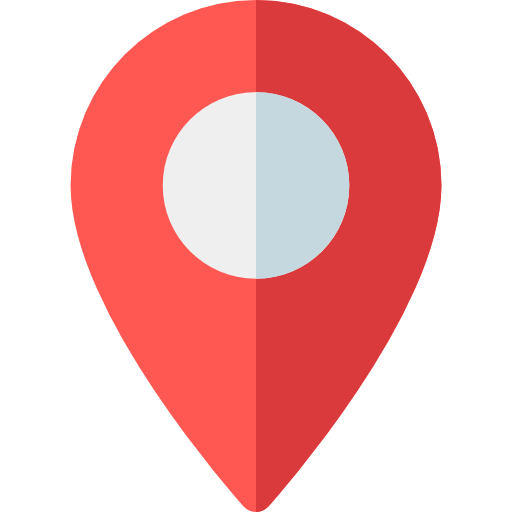
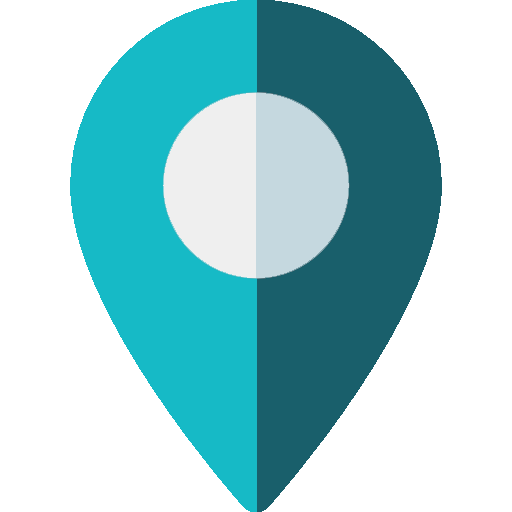
Polish, recolor assets & dp placeholder

diff --git a/lib/pages/submit_rescue_page.dart b/lib/pages/submit_rescue_page.dart
@@ -30,6 +30,7 @@ class SubmitRescuePage extends StatefulWidget {
 class _SubmitRescuePageState extends State<SubmitRescuePage>
     with SingleTickerProviderStateMixin {
   final GlobalKey<FormState> _formKey = GlobalKey<FormState>();
+  final TextEditingController _contactNoController = TextEditingController();
   final TextEditingController _additionalInfoController =
       TextEditingController();
 
@@ -92,7 +93,9 @@ class _SubmitRescuePageState extends State<SubmitRescuePage>
                                 mainAxisSize: MainAxisSize.min,
                                 children: <Widget>[
                                   InkWell(
-                                    onTap: _showImageSourceSelectionDialog,
+                                    onTap: !isBusy
+                                        ? _showImageSourceSelectionDialog
+                                        : null,
                                     child: Material(
                                       shape: RoundedRectangleBorder(
                                           side: BorderSide(
@@ -168,26 +171,62 @@ class _SubmitRescuePageState extends State<SubmitRescuePage>
                                                   FontAwesomeIcons.mapMarkerAlt,
                                                   color: UnderdogTheme.darkTeal,
                                                 ),
-                                                onPressed: () {
-                                                  final Future<LocationInfo>
-                                                      result = Navigator.push(
-                                                          context,
-                                                          MaterialPageRoute<
-                                                                  LocationInfo>(
-                                                              builder: (BuildContext
-                                                                      context) =>
-                                                                  const SelectLocationPage()));
+                                                onPressed: !isBusy
+                                                    ? () {
+                                                        final Future<
+                                                                LocationInfo>
+                                                            result =
+                                                            Navigator.push(
+                                                                context,
+                                                                MaterialPageRoute<
+                                                                        LocationInfo>(
+                                                                    builder: (BuildContext
+                                                                            context) =>
+                                                                        const SelectLocationPage()));
 
-                                                  result.then(
-                                                      (LocationInfo value) {
-                                                    if (value != null) {
-                                                      model.updateLocationInfo(
-                                                          value);
-                                                    }
-                                                  });
-                                                },
+                                                        result.then(
+                                                            (LocationInfo
+                                                                value) {
+                                                          if (value != null) {
+                                                            model
+                                                                .updateLocationInfo(
+                                                                    value);
+                                                          }
+                                                        });
+                                                      }
+                                                    : null,
                                               )
                                             ],
+                                          ),
+                                          const SizedBox(height: 12),
+                                          Text(
+                                            'CONTACT NO.',
+                                            style: UnderdogTheme.darkLabelStyle,
+                                          ),
+                                          TextFormField(
+                                            enabled: !isBusy,
+                                            controller:
+                                                _additionalInfoController,
+                                            maxLines: 1,
+                                            textCapitalization:
+                                                TextCapitalization.sentences,
+                                            cursorColor: Colors.white,
+                                            decoration: InputDecoration(
+                                                enabledBorder: _enabledBorder,
+                                                focusedBorder: _focusedBorder,
+                                                hintText: '09xxxxxxxxx',
+                                                hintStyle:
+                                                    UnderdogTheme.darkHintText),
+                                            validator: (String value) {
+                                              if (value.length != 11 ||
+                                                  int.tryParse(value) == null) {
+                                                return 'Please enter a valid mobile number';
+                                              } else if (value.isEmpty) {
+                                                return 'This field is required';
+                                              }
+
+                                              return null;
+                                            },
                                           ),
                                           const SizedBox(height: 12),
                                           Text(
@@ -195,6 +234,7 @@ class _SubmitRescuePageState extends State<SubmitRescuePage>
                                             style: UnderdogTheme.darkLabelStyle,
                                           ),
                                           TextFormField(
+                                            enabled: !isBusy,
                                             controller:
                                                 _additionalInfoController,
                                             maxLines: 1,
@@ -249,22 +289,25 @@ class _SubmitRescuePageState extends State<SubmitRescuePage>
                             isBusy: isBusy,
                             style: UnderdogTheme.raisedButtonText,
                             onPressed: () async {
-                              final String result = await model.submitRescue(
-                                  widget.report.uid,
-                                  _selectedImage,
-                                  model.locationInfo.addressLine,
-                                  model.locationInfo.latitude,
-                                  model.locationInfo.longitude,
-                                  _additionalInfoController.text);
+                              if (_formKey.currentState.validate()) {
+                                final String result = await model.submitRescue(
+                                    widget.report.uid,
+                                    _selectedImage,
+                                    model.locationInfo.addressLine,
+                                    model.locationInfo.latitude,
+                                    model.locationInfo.longitude,
+                                    _additionalInfoController.text);
 
-                              if (result != null) {
-                                Scaffold.of(context).showSnackBar(
-                                  ErrorSnackBar(
-                                    content: Text(result),
-                                  ),
-                                );
-                              } else {
-                                Navigator.pop(context, true);
+                                if (result != null) {
+                                  Scaffold.of(context).showSnackBar(
+                                    ErrorSnackBar(
+                                      content: Text(result),
+                                    ),
+                                  );
+                                } else {
+                                  await _showSubmissionSuccessDialog();
+                                  Navigator.pop(context, true);
+                                }
                               }
                             },
                             delay: 125,
@@ -351,5 +394,29 @@ class _SubmitRescuePageState extends State<SubmitRescuePage>
         );
       },
     );
+  }
+
+  Future<void> _showSubmissionSuccessDialog() async {
+    showDialog<void>(
+        context: context,
+        barrierDismissible: false,
+        builder: (BuildContext context) {
+          return AlertDialog(
+              shape: RoundedRectangleBorder(
+                  borderRadius: BorderRadius.circular(8)),
+              title: const Text('Success'),
+              content: const Text(
+                'You have successfully submitted the rescue. Thank you so much for helping a dog find his/her forever home!',
+                textAlign: TextAlign.center,
+              ),
+              actions: <Widget>[
+                FlatButton(
+                  child: const Text('Okay'),
+                  onPressed: () {
+                    Navigator.pop(context);
+                  },
+                )
+              ]);
+        });
   }
 }

diff --git a/lib/pages/view_rescue_page.dart b/lib/pages/view_rescue_page.dart
@@ -96,8 +96,8 @@ class _ViewRescuePageState extends State<ViewRescuePage> {
                                         context,
                                         SlideLeftPageRoute<void>(
                                             page: ViewImagePage(
-                                          // url: model.rescue.imageUrl,
-                                          uid: widget.report.uid,
+                                          url: model.rescue.imageUrl,
+                                          uid: '',
                                         )));
                                   },
                                   child: Hero(
@@ -262,54 +262,58 @@ class _ViewRescuePageState extends State<ViewRescuePage> {
           content: Row(
             mainAxisAlignment: MainAxisAlignment.spaceEvenly,
             children: <Widget>[
-              RaisedButton(
-                  child: Container(
-                    padding: const EdgeInsets.symmetric(
-                        vertical: 16, horizontal: 16),
-                    child: Column(
-                      mainAxisSize: MainAxisSize.min,
-                      children: <Widget>[
-                        Icon(
-                          FontAwesomeIcons.phone,
-                          color: Colors.white,
-                        ),
-                        const SizedBox(height: 8),
-                        Text(
-                          'Phone',
-                          style: UnderdogTheme.raisedButtonText,
-                        ),
-                      ],
-                    ),
-                  ),
-                  // onPressed: () {
-                  //   Navigator.pop(context);
-                  //   launch('tel://09178796938');
-                  // }
-                  onPressed: null),
-              const SizedBox(width: 8),
-              RaisedButton(
-                  child: Container(
+              Expanded(
+                child: RaisedButton(
+                    child: Container(
                       padding: const EdgeInsets.symmetric(
                           vertical: 16, horizontal: 16),
                       child: Column(
                         mainAxisSize: MainAxisSize.min,
                         children: <Widget>[
                           Icon(
-                            FontAwesomeIcons.envelopeOpen,
+                            FontAwesomeIcons.phone,
                             color: Colors.white,
                           ),
                           const SizedBox(height: 8),
                           Text(
-                            'E-mail',
+                            'Phone',
                             style: UnderdogTheme.raisedButtonText,
                           ),
                         ],
-                      )),
-                  onPressed: () {
-                    Navigator.pop(context);
-                    launch(
-                        'mailto:${_viewRescueModel.rescuer.email}?subject=Report User: ${_viewRescueModel.rescuer.firstName} ${_viewRescueModel.rescuer.lastName}&body=This user is bad');
-                  }),
+                      ),
+                    ),
+                    // onPressed: () {
+                    //   Navigator.pop(context);
+                    //   launch('tel://09178796938');
+                    // }
+                    onPressed: null),
+              ),
+              const SizedBox(width: 8),
+              Expanded(
+                child: RaisedButton(
+                    child: Container(
+                        padding: const EdgeInsets.symmetric(
+                            vertical: 16, horizontal: 16),
+                        child: Column(
+                          mainAxisSize: MainAxisSize.min,
+                          children: <Widget>[
+                            Icon(
+                              FontAwesomeIcons.envelopeOpen,
+                              color: Colors.white,
+                            ),
+                            const SizedBox(height: 8),
+                            Text(
+                              'E-mail',
+                              style: UnderdogTheme.raisedButtonText,
+                            ),
+                          ],
+                        )),
+                    onPressed: () {
+                      Navigator.pop(context);
+                      launch(
+                          'mailto:${_viewRescueModel.rescuer.email}?subject=Report User: ${_viewRescueModel.rescuer.firstName} ${_viewRescueModel.rescuer.lastName}&body=This user is bad');
+                    }),
+              ),
             ],
           ),
         );

diff --git a/lib/widgets/home_drawer.dart b/lib/widgets/home_drawer.dart
@@ -3,6 +3,7 @@ import 'package:flutter/material.dart';
 import 'package:font_awesome_flutter/font_awesome_flutter.dart';
 import 'package:provider/provider.dart';
 import 'package:share/share.dart';
+import 'package:underdog/constants.dart';
 import 'package:underdog/pages/login_page.dart';
 import 'package:underdog/viewmodels/home_drawer_model.dart';
 import 'package:underdog/viewmodels/home_model.dart';
@@ -46,7 +47,7 @@ class HomeDrawer extends StatelessWidget {
                             child: ClipOval(
                               child: CachedNetworkImage(
                                 imageUrl: model.user.displayPhotoUrl ??
-                                    'https://hips.hearstapps.com/hmg-prod.s3.amazonaws.com/images/03-the-joker-w1200-h630-1562679871.jpg?crop=0.526xw:1.00xh;0.238xw,0&resize=480:*',
+                                    Constants.DP_PLACEHOLDER_URL,
                                 height: 96,
                                 width: 96,
                                 fit: BoxFit.contain,
@@ -64,19 +65,17 @@ class HomeDrawer extends StatelessWidget {
                           Share.share(
                               'Hello friends! Become a rescuer and help dogs find their forever home');
                         },
-                        // icon: FontAwesomeIcons.connectdevelop,
                       ),
-                      const SizedBox(height: 8),
-                      AnimatedFlatButton(
-                        label: 'Report a user',
-                        onPressed: () {},
-                        // icon: FontAwesomeIcons.connectdevelop,
-                      ),
+                      // const SizedBox(height: 8),
+                      // AnimatedFlatButton(
+                      //   label: 'Report a user',
+                      //   onPressed: () {},
+                      // icon: FontAwesomeIcons.connectdevelop,
+                      // ),
                       const SizedBox(height: 8),
                       AnimatedFlatButton(
                         label: 'About',
                         onPressed: () {},
-                        // icon: FontAwesomeIcons.connectdevelop,
                       ),
                       const SizedBox(height: 8),
                       AnimatedRaisedButton(

diff --git a/lib/pages/home_page.dart b/lib/pages/home_page.dart
@@ -280,9 +280,15 @@ class _HomePageState extends State<HomePage> with TickerProviderStateMixin {
   Future<void> _initializeUserMarker() async {
     final UserLocation userLocation = Provider.of<UserLocation>(context);
 
+    const ImageConfiguration imageConfig =
+        ImageConfiguration(size: Size(48, 48));
+    final BitmapDescriptor icon =
+        await BitmapDescriptor.fromAssetImage(imageConfig, 'assets/marker.png');
+
     final Marker marker = Marker(
       markerId: _userMarkerId,
-      icon: BitmapDescriptor.defaultMarkerWithHue(184.1),
+      // icon: BitmapDescriptor.defaultMarkerWithHue(184.1),
+      icon: icon,
       position: LatLng(userLocation.latitude, userLocation.longitude),
       infoWindow: const InfoWindow(title: 'You are here'),
       onTap: () {},
@@ -305,9 +311,15 @@ class _HomePageState extends State<HomePage> with TickerProviderStateMixin {
   Future<void> _updateUserMarker(Timer t) async {
     final UserLocation userLocation = Provider.of<UserLocation>(context);
 
+    const ImageConfiguration imageConfig =
+        ImageConfiguration(size: Size(48, 48));
+    final BitmapDescriptor icon =
+        await BitmapDescriptor.fromAssetImage(imageConfig, 'assets/marker.png');
+
     final Marker marker = Marker(
       markerId: _userMarkerId,
-      icon: BitmapDescriptor.defaultMarkerWithHue(184.1),
+      // icon: BitmapDescriptor.defaultMarkerWithHue(184.1),
+      icon: icon,
       position: LatLng(userLocation.latitude, userLocation.longitude),
       infoWindow: const InfoWindow(title: 'You are here'),
       onTap: () {},

diff --git a/lib/pages/submit_report_page.dart b/lib/pages/submit_report_page.dart
@@ -427,7 +427,8 @@ class _SubmitReportPageState extends State<SubmitReportPage>
                   borderRadius: BorderRadius.circular(8)),
               title: const Text('Success'),
               content: const Text(
-                  'You have successfully submitted the report. Let\'s hope someone rescues the pup soon!'),
+                  'You have successfully submitted the report. Let\'s hope someone rescues the pup soon!',
+                  textAlign: TextAlign.center),
               actions: <Widget>[
                 FlatButton(
                   child: const Text('Okay'),

diff --git a/lib/constants.dart b/lib/constants.dart
@@ -4,4 +4,7 @@ class Constants {
   static const double PAGE_TOP_SPACING = 82;
   static const double PAGE_BOTTOM_BAR_SIZE = 90;
   static const double PAGE_BOTTOM_BAR_ITEMS_BOTTOM_PADDING = 22;
+
+  static const String DP_PLACEHOLDER_URL =
+      'https://firebasestorage.googleapis.com/v0/b/underdog-rescue-assistant.appspot.com/o/app%2Fdp_placholder.jpg?alt=media&token=795ee11d-b5b3-4bdb-ba03-8b2eabf5b59c';
 }
